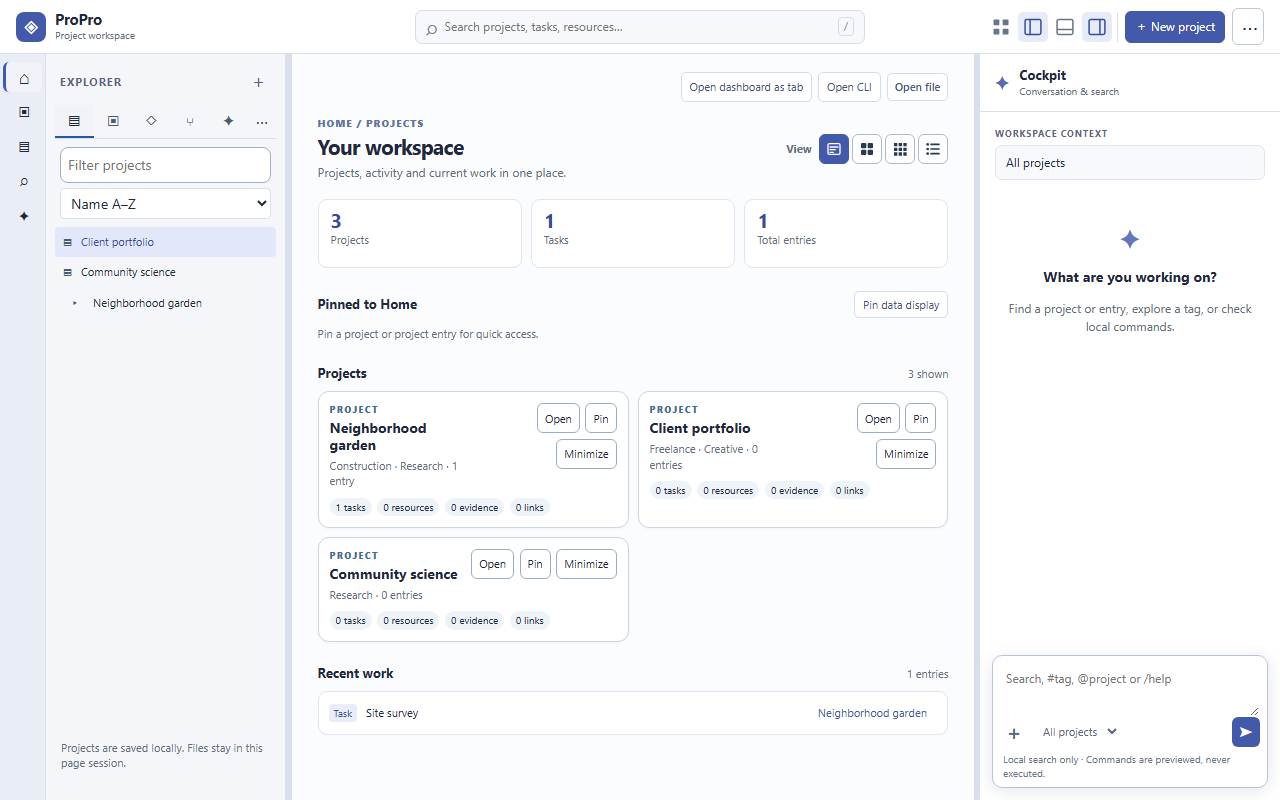
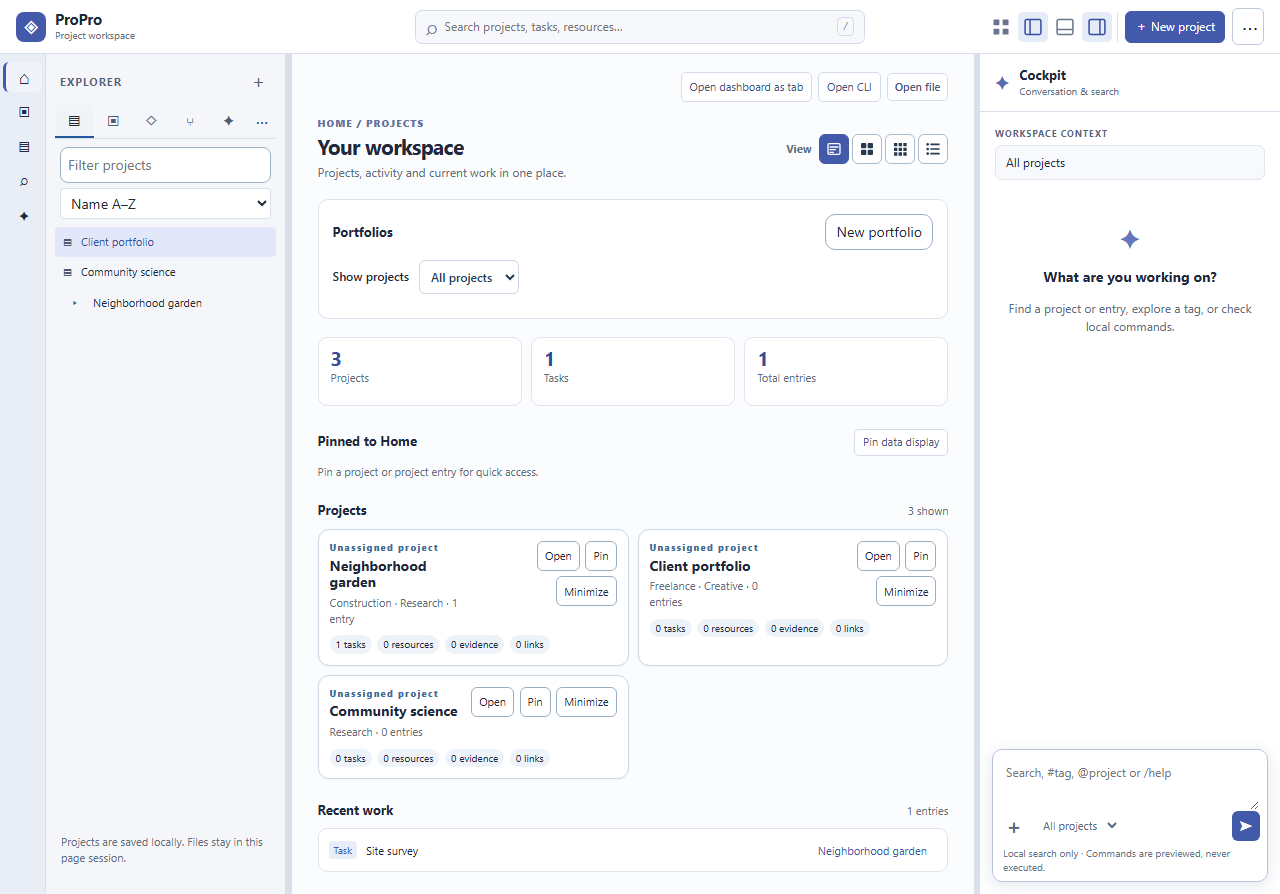
Add browser-local portfolios to Project Portal
Change-Level: DRIVE
Dev-Docs: updated
Validation: 6 model tests and 14 browser tests passed; governance checks blocked by existing local guidance gaps
Reason: Approved portfolio vertical slice; owner acceptance and repository guidance remain open

diff --git a/index.html b/index.html
@@ -16,11 +16,12 @@
   <p id="message" class="status" role="status" aria-live="polite"></p>
   <main id="workbench" aria-label="Project workspace">
     <aside id="explorer" aria-label="Workspace explorer"><div class="explorer-head"><h2>Explorer</h2><button type="button" data-new aria-label="Add project" title="Add project">＋</button></div><div id="tabbed-explorer"></div><p class="hint">Projects are saved locally. Files stay in this page session.</p></aside>
-    <section id="content" aria-label="Project dashboard"><div class="content-head"><div><p class="eyebrow">HOME / PROJECTS</p><h2 id="dashboard-heading" tabindex="-1">Your workspace</h2><p id="project-count" class="muted"></p></div><div class="layout-picker"><span class="layout-picker__label" id="layout-label">View</span><div class="view-switch" role="group" aria-labelledby="layout-label"><button type="button" data-mode="large" aria-label="Large tiles" title="Large tiles"><svg viewBox="0 0 24 24" aria-hidden="true" focusable="false"><rect x="3" y="4" width="18" height="16" rx="2" fill="none" stroke="currentColor" stroke-width="2"/><path d="M6 9h12M6 13h8M6 17h5" fill="none" stroke="currentColor" stroke-width="2" stroke-linecap="round"/></svg></button><button type="button" data-mode="mini" aria-label="Mini tiles" title="Mini tiles"><svg viewBox="0 0 24 24" aria-hidden="true" focusable="false"><rect x="3" y="3" width="8" height="8" rx="1.5"/><rect x="13" y="3" width="8" height="8" rx="1.5"/><rect x="3" y="13" width="8" height="8" rx="1.5"/><rect x="13" y="13" width="8" height="8" rx="1.5"/></svg></button><button type="button" data-mode="grid" aria-label="Grid tiles" title="Grid tiles"><svg viewBox="0 0 24 24" aria-hidden="true" focusable="false"><path d="M3 3h5v5H3zm7 0h5v5h-5zm7 0h5v5h-5zM3 10h5v5H3zm7 0h5v5h-5zm7 0h5v5h-5zM3 17h5v5H3zm7 0h5v5h-5zm7 0h5v5h-5z"/></svg></button><button type="button" data-mode="list" aria-label="List tiles" title="List tiles"><svg viewBox="0 0 24 24" aria-hidden="true" focusable="false"><circle cx="4" cy="5" r="2"/><circle cx="4" cy="12" r="2"/><circle cx="4" cy="19" r="2"/><path d="M9 5h12M9 12h12M9 19h12" fill="none" stroke="currentColor" stroke-width="2.5" stroke-linecap="round"/></svg></button></div></div></div><div id="overview-stats" class="overview-stats" aria-label="Workspace overview"></div><div class="section-head"><h3>Projects</h3><span id="section-count"></span></div><div id="cards" class="cards"></div><section id="recent-work" class="recent-work" aria-label="Recent work"></section><div id="detail"></div></section>
+    <section id="content" aria-label="Project dashboard"><div class="content-head"><div><p class="eyebrow">HOME / PROJECTS</p><h2 id="dashboard-heading" tabindex="-1">Your workspace</h2><p id="project-count" class="muted"></p></div><div class="layout-picker"><span class="layout-picker__label" id="layout-label">View</span><div class="view-switch" role="group" aria-labelledby="layout-label"><button type="button" data-mode="large" aria-label="Large tiles" title="Large tiles"><svg viewBox="0 0 24 24" aria-hidden="true" focusable="false"><rect x="3" y="4" width="18" height="16" rx="2" fill="none" stroke="currentColor" stroke-width="2"/><path d="M6 9h12M6 13h8M6 17h5" fill="none" stroke="currentColor" stroke-width="2" stroke-linecap="round"/></svg></button><button type="button" data-mode="mini" aria-label="Mini tiles" title="Mini tiles"><svg viewBox="0 0 24 24" aria-hidden="true" focusable="false"><rect x="3" y="3" width="8" height="8" rx="1.5"/><rect x="13" y="3" width="8" height="8" rx="1.5"/><rect x="3" y="13" width="8" height="8" rx="1.5"/><rect x="13" y="13" width="8" height="8" rx="1.5"/></svg></button><button type="button" data-mode="grid" aria-label="Grid tiles" title="Grid tiles"><svg viewBox="0 0 24 24" aria-hidden="true" focusable="false"><path d="M3 3h5v5H3zm7 0h5v5h-5zm7 0h5v5h-5zM3 10h5v5H3zm7 0h5v5h-5zm7 0h5v5h-5zM3 17h5v5H3zm7 0h5v5h-5zm7 0h5v5h-5z"/></svg></button><button type="button" data-mode="list" aria-label="List tiles" title="List tiles"><svg viewBox="0 0 24 24" aria-hidden="true" focusable="false"><circle cx="4" cy="5" r="2"/><circle cx="4" cy="12" r="2"/><circle cx="4" cy="19" r="2"/><path d="M9 5h12M9 12h12M9 19h12" fill="none" stroke="currentColor" stroke-width="2.5" stroke-linecap="round"/></svg></button></div></div></div><section id="portfolios-home" class="portfolios-home" aria-label="Portfolios"></section><div id="overview-stats" class="overview-stats" aria-label="Workspace overview"></div><div class="section-head"><h3>Projects</h3><span id="section-count"></span></div><div id="cards" class="cards"></div><section id="recent-work" class="recent-work" aria-label="Recent work"></section><div id="detail"></div></section>
     <aside id="context" aria-label="Conversation and search"><div class="context-head"><span class="context-icon" aria-hidden="true">✦</span><div><h2>Cockpit</h2><p>Conversation &amp; search</p></div></div><div class="context-content"><p class="context-eyebrow">WORKSPACE CONTEXT</p><div id="context-project" class="context-project">All projects</div><div class="context-welcome"><span class="context-spark" aria-hidden="true">✦</span><h3>What are you working on?</h3><p>Find a project or entry, explore a tag, or check local commands.</p></div><div id="composer-results" role="status" aria-live="polite"></div></div><form id="composer" class="composer"><label for="composer-input" class="sr-only">Ask or search workspace</label><textarea id="composer-input" rows="2" placeholder="Search, #tag, @project or /help"></textarea><div id="composer-suggestions" class="composer-suggestions" role="group" aria-label="Composer suggestions"></div><div id="composer-attachments" class="composer-attachments"></div><div class="composer-tools"><label class="attach-button" title="Add attachment" aria-label="Add attachment">＋<input id="composer-files" type="file" multiple></label><select id="composer-scope" aria-label="Search scope"><option value="all">All projects</option><option value="projects">Projects</option><option value="entries">Entries</option></select><button type="submit" class="composer-submit" aria-label="Search workspace" title="Search workspace">➤</button></div><p class="composer-note">Local search only · Commands are previewed, never executed.</p></form></aside>
   </main>
   <dialog id="project-dialog" aria-labelledby="create-heading"><form id="project-form" class="stack"><h2 id="create-heading">Create project</h2><label>Project name<input name="name" maxlength="200" required placeholder="e.g. Neighborhood garden"></label><fieldset><legend>Capabilities (optional)</legend><div id="create-caps" class="cap-options"></div></fieldset><div class="row"><button class="primary" type="submit">Create project</button><button id="cancel-project" type="button">Cancel</button></div></form></dialog>
-  <dialog id="import-dialog" aria-labelledby="import-heading"><h2 id="import-heading">Replace saved projects?</h2><p>Importing this file will replace all projects saved in this browser. Export a backup first if you need one.</p><div class="row"><button id="confirm-import" class="primary" type="button">Replace projects</button><button id="cancel-import" type="button">Cancel</button></div></dialog>
+  <dialog id="portfolio-dialog" aria-labelledby="portfolio-heading"><form id="portfolio-form" class="stack"><h2 id="portfolio-heading">Create portfolio</h2><label>Portfolio name<input name="name" maxlength="200" required></label><div class="row"><button class="primary" type="submit">Save portfolio</button><button id="cancel-portfolio" type="button">Cancel</button></div></form></dialog>
+  <dialog id="import-dialog" aria-labelledby="import-heading"><h2 id="import-heading">Replace saved projects?</h2><p>Importing this file will replace all projects and portfolios saved in this browser. Export a backup first if you need one.</p><div class="row"><button id="confirm-import" class="primary" type="button">Replace projects</button><button id="cancel-import" type="button">Cancel</button></div></dialog>
   <script src="./node_modules/@cockpit/gui/src/workbenchUI.js"></script>
   <script src="./node_modules/@cockpit/gui/src/tabbedExplorerUI.js"></script>
   <script src="./model.mjs"></script>

diff --git a/styles.css b/styles.css
@@ -222,3 +222,4 @@ body { background:#f5f6fa; }
   #workbench > #explorer,#workbench > #content,#workbench > #context { grid-column:2; grid-row:auto; }
   #workbench > .cockpit-workbench__activity { grid-column:1; grid-row:1 / span 3; }
 }
+.portfolios-home{margin:12px 0 18px;padding:14px;border:1px solid #dce3ed;border-radius:10px;background:#fff}.portfolio-filter-label{display:flex;align-items:center;gap:10px;font-size:12px;margin:10px 0}.portfolio-filter-label select,.portfolio-membership select{min-width:0;max-width:100%;padding:7px;border:1px solid #ccd6e4;border-radius:6px;background:#fff;color:#273b57}.portfolio-list{display:flex;flex-wrap:wrap;gap:9px}.portfolio-card{display:flex;max-width:100%;border:1px solid #dce3ee;border-radius:8px;overflow:hidden}.portfolio-card button{min-width:0;overflow-wrap:anywhere;white-space:normal;border:0;padding:9px;background:#f5f7fb;color:#354968;cursor:pointer;font-size:12px}.portfolio-card button[aria-pressed=true]{background:#e4ecff}.portfolio-card span{display:block;font-size:10px;color:#63728b;margin-top:3px}.portfolio-card button+button{border-left:1px solid #dce3ee}.portfolio-membership{display:flex;align-items:end;flex-wrap:wrap;gap:10px;margin-bottom:16px}.portfolio-membership label{display:grid;gap:5px;min-width:0;font-size:12px}.portfolio-membership button{padding:7px 10px;border:1px solid #ccd6e4;border-radius:6px;background:#fff;cursor:pointer}#portfolio-dialog{width:min(440px,calc(100vw - 30px));border:1px solid #ccd6e4;border-radius:12px;padding:22px}#portfolio-dialog input{width:100%;min-width:0;padding:9px}#portfolio-dialog::backdrop{background:#20304466}@media(max-width:500px){.portfolio-filter-label{align-items:flex-start;flex-direction:column}.portfolio-card{width:100%}.portfolio-card button:first-child{flex:1}.portfolio-filter-label select{width:100%}.portfolio-membership{align-items:stretch;flex-direction:column}}

diff --git a/docs/PORTFOLIO-SLICE.md b/docs/PORTFOLIO-SLICE.md
@@ -1,0 +1,29 @@
+# Portfolio vertical slice
+
+Date: November 7, 2026. Implementation candidate; owner acceptance remains open.
+
+## Approved scope
+
+Create and rename browser-local portfolios, assign or remove project membership, show portfolio grouping on Home and in Projects Explorer, and preserve existing project data through reload and export/import. Research, construction, freelance, creative, development, business, and personal work use the shared model. No external account or provider is required.
+
+## Data contract
+
+The existing `propro-project-portal-v1` storage key and top-level version 1 remain unchanged. Legacy documents without portfolios are valid and are not rewritten on load. Portfolios use the additive `portfolios` array with records `{version: 1, id, name}`. Projects may carry `portfolioId`; absent or null means unassigned. Membership references must resolve to a portfolio in the same document. The internal `__unassigned__` selector value is reserved and not a valid portfolio ID.
+
+Validation rejects unsupported portfolio versions, malformed names/IDs, duplicate portfolio IDs, invalid portfolio arrays and dangling membership. Import validates the complete document before offering replacement. Export includes the original project entries and all portfolio/membership fields. This slice supports one portfolio per project; hierarchy, multiple membership, typed cross-project relationships, roles, permissions, and synchronization are outside its scope.
+
+## Interface
+
+Home provides portfolio creation, renaming, project counts, and All/Unassigned/portfolio filtering. Project Overview provides membership assignment and removal. New projects created while viewing a portfolio inherit that portfolio. Projects Explorer uses portfolio parent nodes and an Unassigned group; documents without portfolios retain the previous flat project tree. Portfolio names are plain text and escaped before rendering. Portfolio grouping is organizational and does not establish personal/professional access isolation.
+
+## Acceptance evidence
+
+Model and browser coverage checks legacy preservation, multi-domain membership, malformed data, rename, reload, JSON export/import, removal back to Unassigned, Explorer grouping, keyboard creation, narrow reflow, and automated accessibility rules. Current test results are recorded in the execution record. Automated checks do not establish human acceptance, complete accessibility conformance, or release readiness.
+
+Verified locally: 6 model tests and the full 14-test Chromium browser suite pass. The two portfolio browser tests also pass after the final display-text correction. Desktop and phone captures are `docs/screenshots/propro-portfolios-1280.png` and `docs/screenshots/propro-portfolios-390.png`; the regression suite refreshed its existing reference captures. Reflow and automated axe checks pass at the suite's phone, tablet, and desktop widths.
+
+Repository-guidance validation remains blocked independently of application tests: `validate-planning.ps1` rejects the existing nested `bootdog/DEV-PLAN.md` heading; `validate-review-grammar.ps1` finds no project-local review grammar or agent instruction file; and the project-target zero-trust audit has no local GC-AUDIT registry. These checks were run, not passed. No governance/tooling changes or release claims are included in this slice.
+
+## Open review
+
+Owner review of the running portfolio workflow and task-based usability remains required before closing the approved milestone. No ECO/eOS or operating-system capabilities were added. Cockpit GUI's packaged component boundary is unchanged.

diff --git a/README.md b/README.md
@@ -8,6 +8,8 @@ ProPro is an adaptable project portal for construction, research, freelance, cre
 
 **Current stage:** runnable local dashboard candidate on `feature/propro-002-first-workspace`; review and human visual acceptance remain open.
 
+Current portfolio follow-up (November 7, 2026): the active checkout adds a browser-local portfolio creation, rename, membership, Home filtering, and Explorer grouping candidate. Existing version 1 project records remain compatible. See [portfolio scope and data contract](docs/PORTFOLIO-SLICE.md). Owner acceptance is still open; this note supersedes the feature-branch wording above for the current checkout and does not declare a release.
+
 - [Product charter](docs/PRODUCT-CHARTER.md)
 - [ProPro-001 scope and exit criteria](docs/PROPRO-001.md)
 
